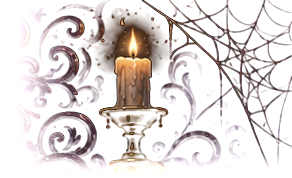
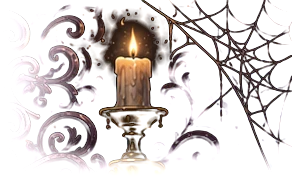
Staged boards, pass 4: cleaner cut-outs, a darker ground, bigger hit targets
The corner candles and the acanthus flanks are re-keyed so the painting's own
ground no longer lays a dark rectangle on the wall and no stray bat or cobweb
blob rides along. The wall sits a step darker, closer to the sample boards, so
the brass reads brighter. The Tricks count in Mr. Moth's panel is a 22px
target again; the smallest labels are 10px.

diff --git a/game/src/ui/kit.css b/game/src/ui/kit.css
@@ -48,10 +48,10 @@
   background:
     radial-gradient(34% 28% at 11% 7%, color-mix(in srgb, var(--kit-candle) 14%, transparent) 0%, transparent 70%),
     radial-gradient(34% 28% at 89% 7%, color-mix(in srgb, var(--kit-candle) 14%, transparent) 0%, transparent 70%),
-    radial-gradient(56% 44% at 50% 46%, color-mix(in srgb, var(--kit-violet) 11%, transparent) 0%, transparent 72%),
+    radial-gradient(56% 44% at 50% 46%, color-mix(in srgb, var(--kit-violet) 9%, transparent) 0%, transparent 72%),
     radial-gradient(80% 50% at 50% 108%, color-mix(in srgb, var(--kit-moon) 5%, transparent) 0%, transparent 70%),
     url("../../assets/ui/kit/grain.webp"),
-    linear-gradient(180deg, var(--kit-ground-0) 0%, color-mix(in oklab, var(--kit-ground-1) 72%, var(--kit-ground-0)) 40%, color-mix(in oklab, var(--kit-ground-1) 50%, var(--kit-ground-0)) 72%, var(--kit-void) 100%);
+    linear-gradient(180deg, var(--kit-ground-0) 0%, color-mix(in oklab, var(--kit-ground-1) 55%, var(--kit-ground-0)) 40%, color-mix(in oklab, var(--kit-ground-1) 38%, var(--kit-ground-0)) 72%, var(--kit-void) 100%);
   background-blend-mode: normal, normal, normal, normal, overlay, normal;
   background-size: auto, auto, auto, auto, 256px 256px, auto;
 }
@@ -80,8 +80,8 @@
 .kit-board.has-backdrop .kit-ground::before { opacity: 0; }
 .kit-board .rm-vig {
   background:
-    radial-gradient(120% 96% at 50% 42%, transparent 46%, color-mix(in srgb, var(--kit-void) 82%, transparent) 100%),
-    linear-gradient(to bottom, transparent 70%, color-mix(in srgb, var(--kit-void) 70%, transparent) 100%);
+    radial-gradient(115% 92% at 50% 44%, transparent 40%, color-mix(in srgb, var(--kit-void) 88%, transparent) 100%),
+    linear-gradient(to bottom, transparent 72%, color-mix(in srgb, var(--kit-void) 65%, transparent) 100%);
 }
 
 /* ── set dressing ─────────────────────────────────────────────────────────── */
@@ -354,15 +354,15 @@
    wall, with its own floor, so what stands in it has somewhere to stand.
    Put it on a positioned container; it draws itself on ::before and never
    takes pointer events.                                                     */
-.kit-stage { position: relative; isolation: isolate; }
+.kit-stage { --stage-inset: 0px; --stage-r: 34px; --stage-floor: 150px; position: relative; isolation: isolate; }
 .kit-stage::before {
   content: ''; position: absolute; z-index: -3; pointer-events: none;
-  inset: var(--stage-inset, 0);
-  border-radius: var(--stage-r, 34px);
+  inset: var(--stage-inset);
+  border-radius: var(--stage-r);
   border: 1px solid color-mix(in srgb, var(--kit-gold-hi) 70%, var(--kit-gold));
   background:
     radial-gradient(60% 40% at 50% 100%, color-mix(in srgb, var(--kit-candle) 10%, transparent), transparent 72%),
-    url("../../assets/ui/kit/floor.webp") 50% 100% / auto var(--stage-floor, 150px) repeat-x,
+    url("../../assets/ui/kit/floor.webp") 50% 100% / auto var(--stage-floor) repeat-x,
     linear-gradient(180deg, rgba(7, 5, 10, .5) 0%, rgba(7, 5, 10, .28) 40%, rgba(7, 5, 10, .42) 100%);
   box-shadow:
     0 0 0 1px var(--kit-void),

diff --git a/game/src/scenes/shop.css b/game/src/scenes/shop.css
@@ -312,14 +312,18 @@
 }
 .sh-moth__you div { display: flex; flex-direction: row; align-items: baseline; gap: 5px; }
 .sh-moth__you dt {
-  font-family: var(--font-display); font-weight: 700; font-size: 9.5px;
+  font-family: var(--font-display); font-weight: 700; font-size: 10px;
   letter-spacing: .1em; text-transform: uppercase; color: var(--kit-text-lo);
 }
 .sh-moth__you dd {
   margin: 0; font-family: var(--font-num); font-weight: 600; font-size: var(--fs-md); line-height: 1.1;
   color: var(--kit-gold-hi); text-shadow: 0 1px 0 rgba(0, 0, 0, .9);
 }
-.sh-deck { color: inherit; font: inherit; padding: 0 2px; border-bottom: 1px dotted color-mix(in srgb, var(--kit-gold) 70%, transparent); }
+.sh-deck {
+  color: inherit; font: inherit; line-height: 22px;
+  min-width: 30px; min-height: 22px; padding: 0 5px;
+  border-bottom: 1px dotted color-mix(in srgb, var(--kit-gold) 70%, transparent);
+}
 .sh-deck:hover { color: #fff1d2; }
 
 /* the removal service, across the foot of his panel */

diff --git a/game/src/scenes/reward.css b/game/src/scenes/reward.css
@@ -137,7 +137,7 @@
 .rm-mockflag {
   position: absolute; left: 50%; bottom: calc(var(--kit-edge, 10px) + 3px); transform: translateX(-50%);
   z-index: 6; padding: 2px 12px; white-space: nowrap;
-  font-family: var(--font-display); font-size: 9.5px; letter-spacing: .13em; text-transform: uppercase;
+  font-family: var(--font-display); font-size: 10px; letter-spacing: .12em; text-transform: uppercase;
   color: var(--kit-text-lo);
   background: linear-gradient(90deg, transparent, color-mix(in srgb, var(--kit-void) 88%, transparent) 16%, color-mix(in srgb, var(--kit-void) 88%, transparent) 84%, transparent);
 }

diff --git a/tools/prep_ui_kit.py b/tools/prep_ui_kit.py
@@ -124,10 +124,23 @@ def keyed(name, box, lo, hi, bg, gamma=1.0, soft=0.6, **fe):
 def corners():
     # selectCompanion's top band: cobweb, a lit candle on a brass stick, purple
     # scrollwork. The band ends where the cartouche rim and the tile rails start.
-    left = keyed(SC, (0, 0, 292, 178), lo=9, hi=46, bg=(7, 5, 7), right=70, bottom=26)
-    right = keyed(SC, (962, 0, 1254, 178), lo=9, hi=46, bg=(7, 5, 7), left=70, bottom=26)
-    save(left, "corner-l.webp", 88)
-    save(right, "corner-r.webp", 88)
+    # Keyed from lum 17, not 9: the painting's own ground sits at lum 8-16 and,
+    # kept at partial alpha, it laid a faint dark rectangle over the board's wall.
+    for name, box, fe in [("corner-l.webp", (0, 0, 292, 178), dict(right=80, bottom=34)),
+                          ("corner-r.webp", (962, 0, 1254, 178), dict(left=80, bottom=34))]:
+        rgb = crop(SC, box)
+        l = blur(lum(rgb), 0.6)
+        # Two keys. Far from anything lit, only real ornament survives (lum 17+).
+        # Close to a lit edge the painting's darks are the object's own shadow
+        # side (the candlestick's stem, the scroll's undercut) and are kept.
+        far = ramp(l, 17, 58)
+        near = ramp(l, 7, 30)
+        lit = l > 34
+        d = ndimage.distance_transform_edt(~lit)
+        w = np.clip(1.0 - (d - 3.0) / 5.0, 0, 1)
+        a = far * (1 - w) + near * w
+        a = feather(a, **fe)
+        save(rgba(unmix(rgb, a, (7, 5, 7)), a), name, 88)
 
 
 def vines():
@@ -377,6 +390,13 @@ def flanks():
             keep = np.isin(lab, 1 + np.nonzero(sizes >= 40)[0])   # drop specks
             purple = keep
         a = blur(ndimage.binary_dilation(purple, iterations=1).astype(np.float32), 0.6) * ramp(l, 6, 30)
+        # grey blobs of cobweb and frame reach into the box: keep only the violet
+        lab, n = ndimage.label(a > 0.15)
+        if n:
+            chroma = rgb[..., 2] - rgb[..., 1]
+            mean_c = ndimage.mean(chroma, lab, range(1, n + 1))
+            grey = np.isin(lab, 1 + np.nonzero(np.asarray(mean_c) < 7)[0])
+            a = np.where(ndimage.binary_dilation(grey, iterations=2), 0, a)
         a = feather(a, **fe)
         save(rgba(unmix(rgb, a, (7, 5, 9)), a), name, 90)
 
